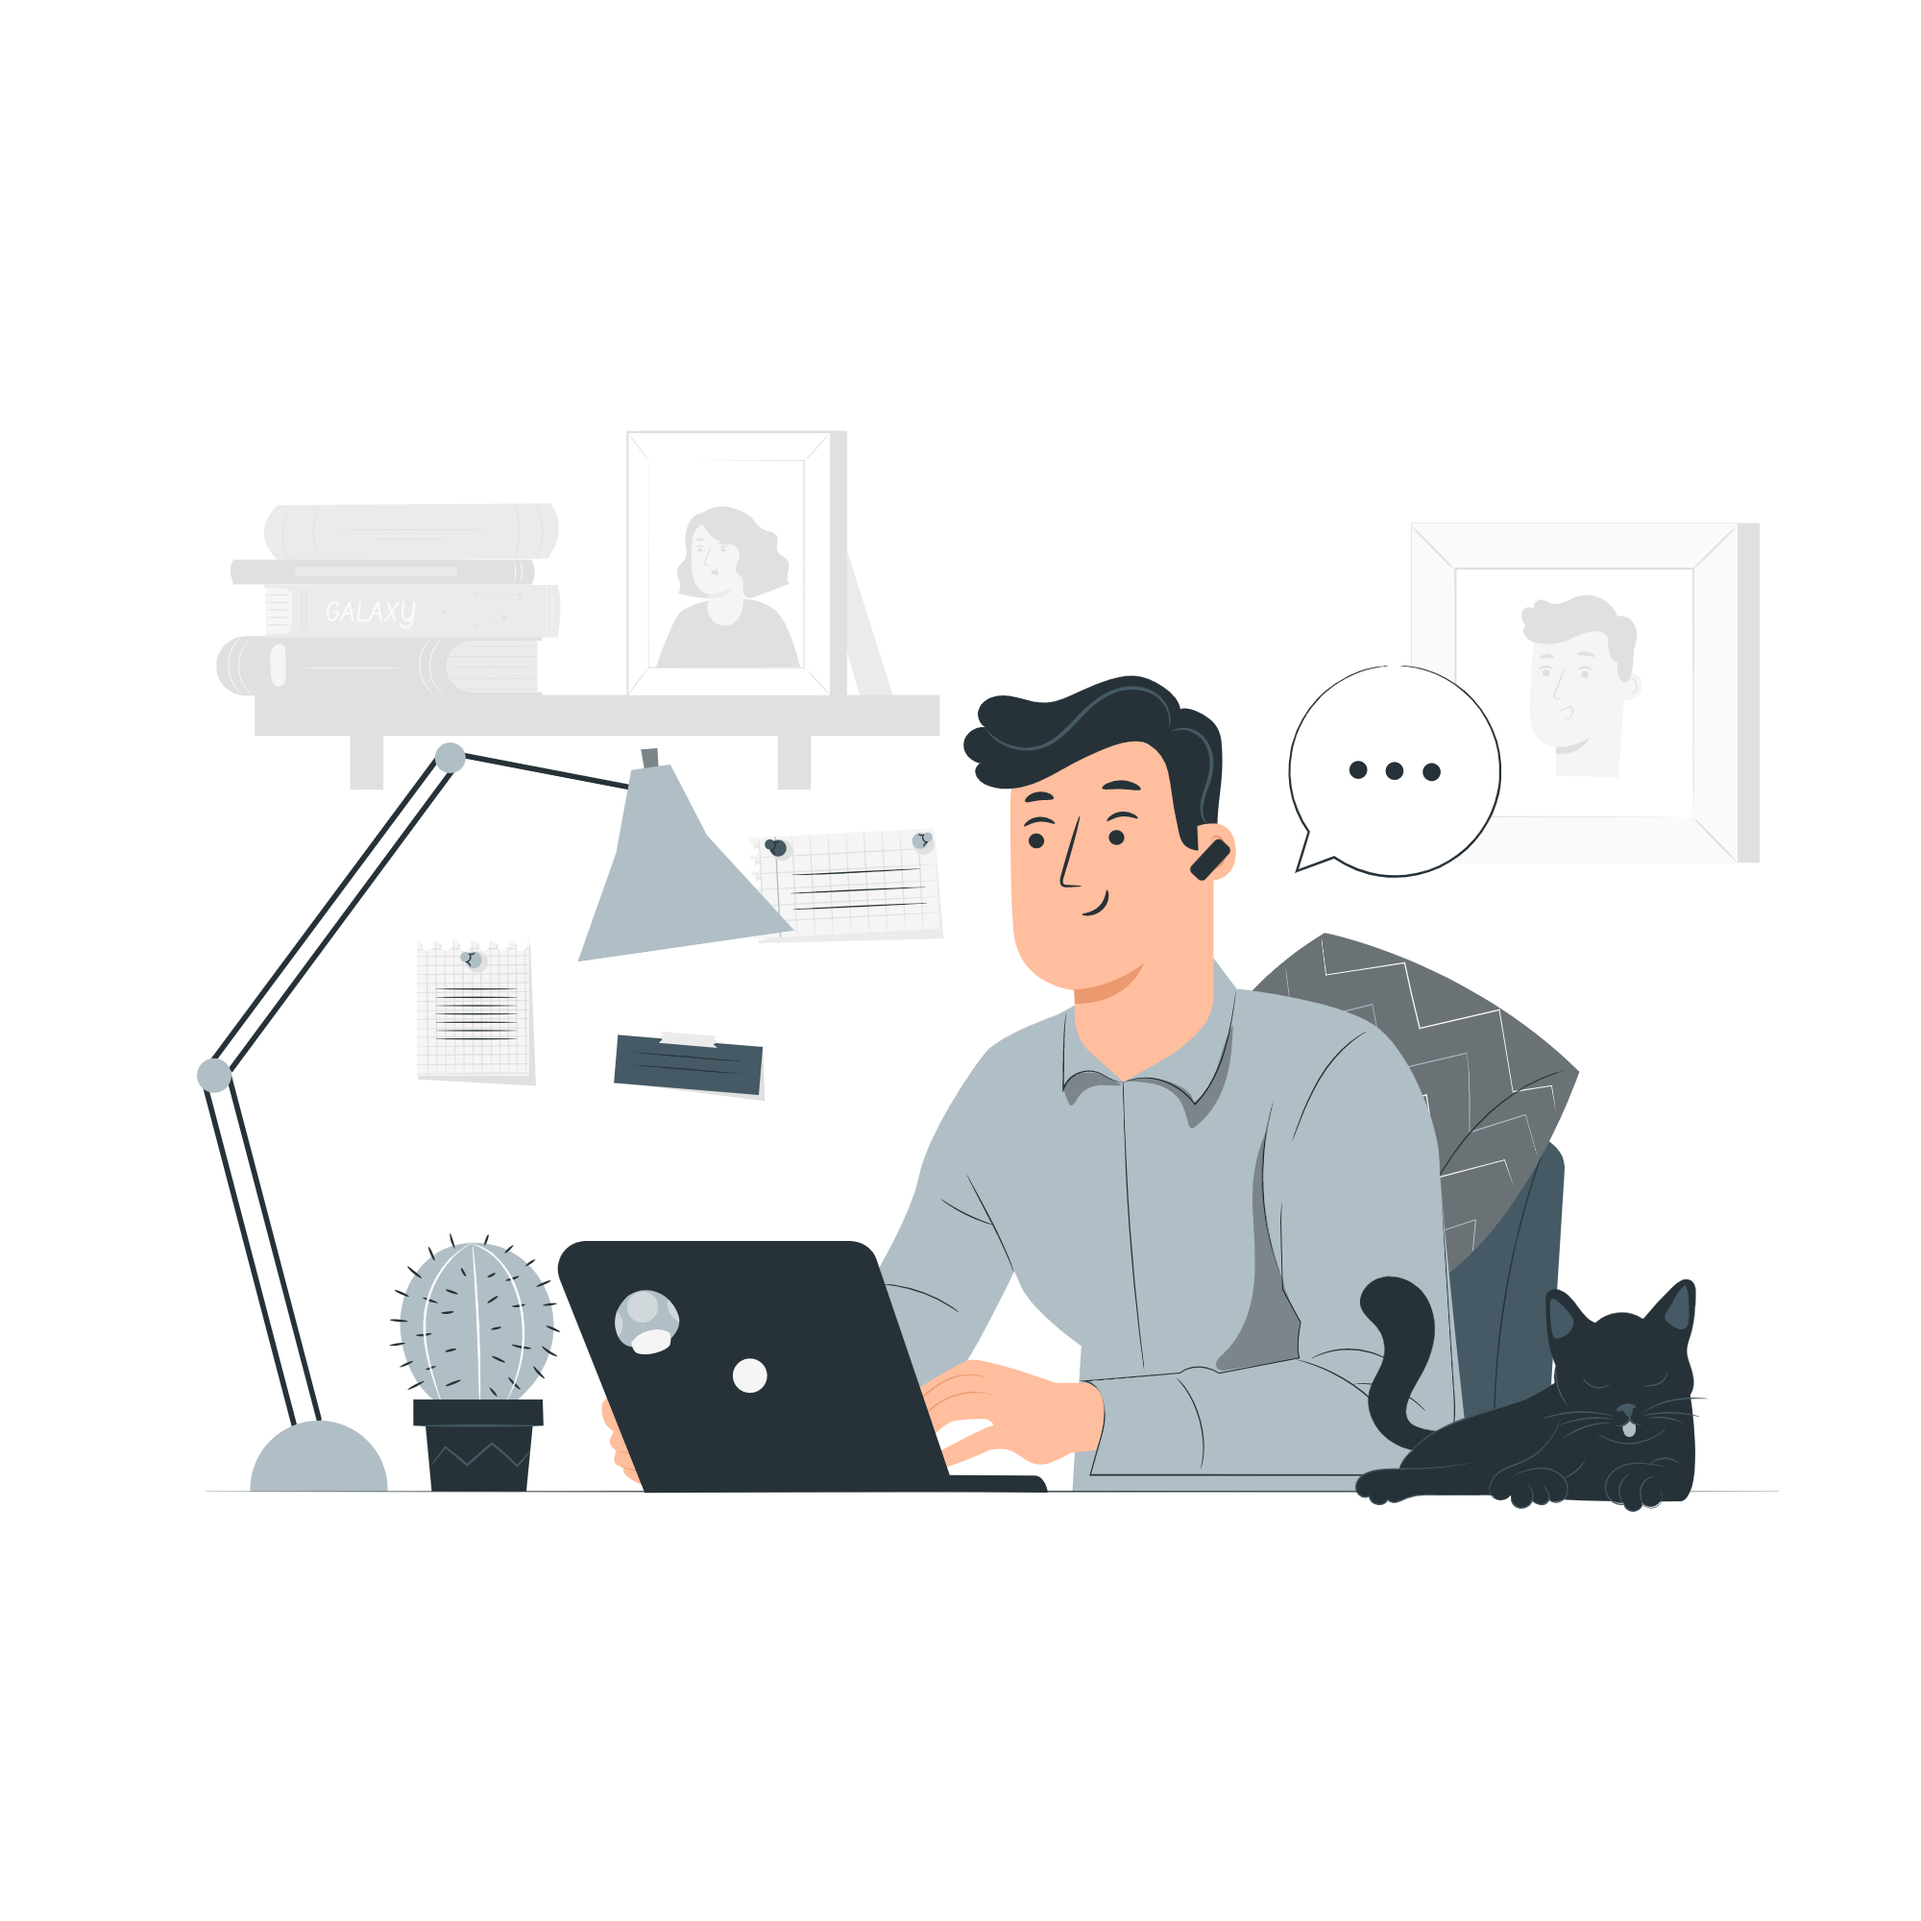
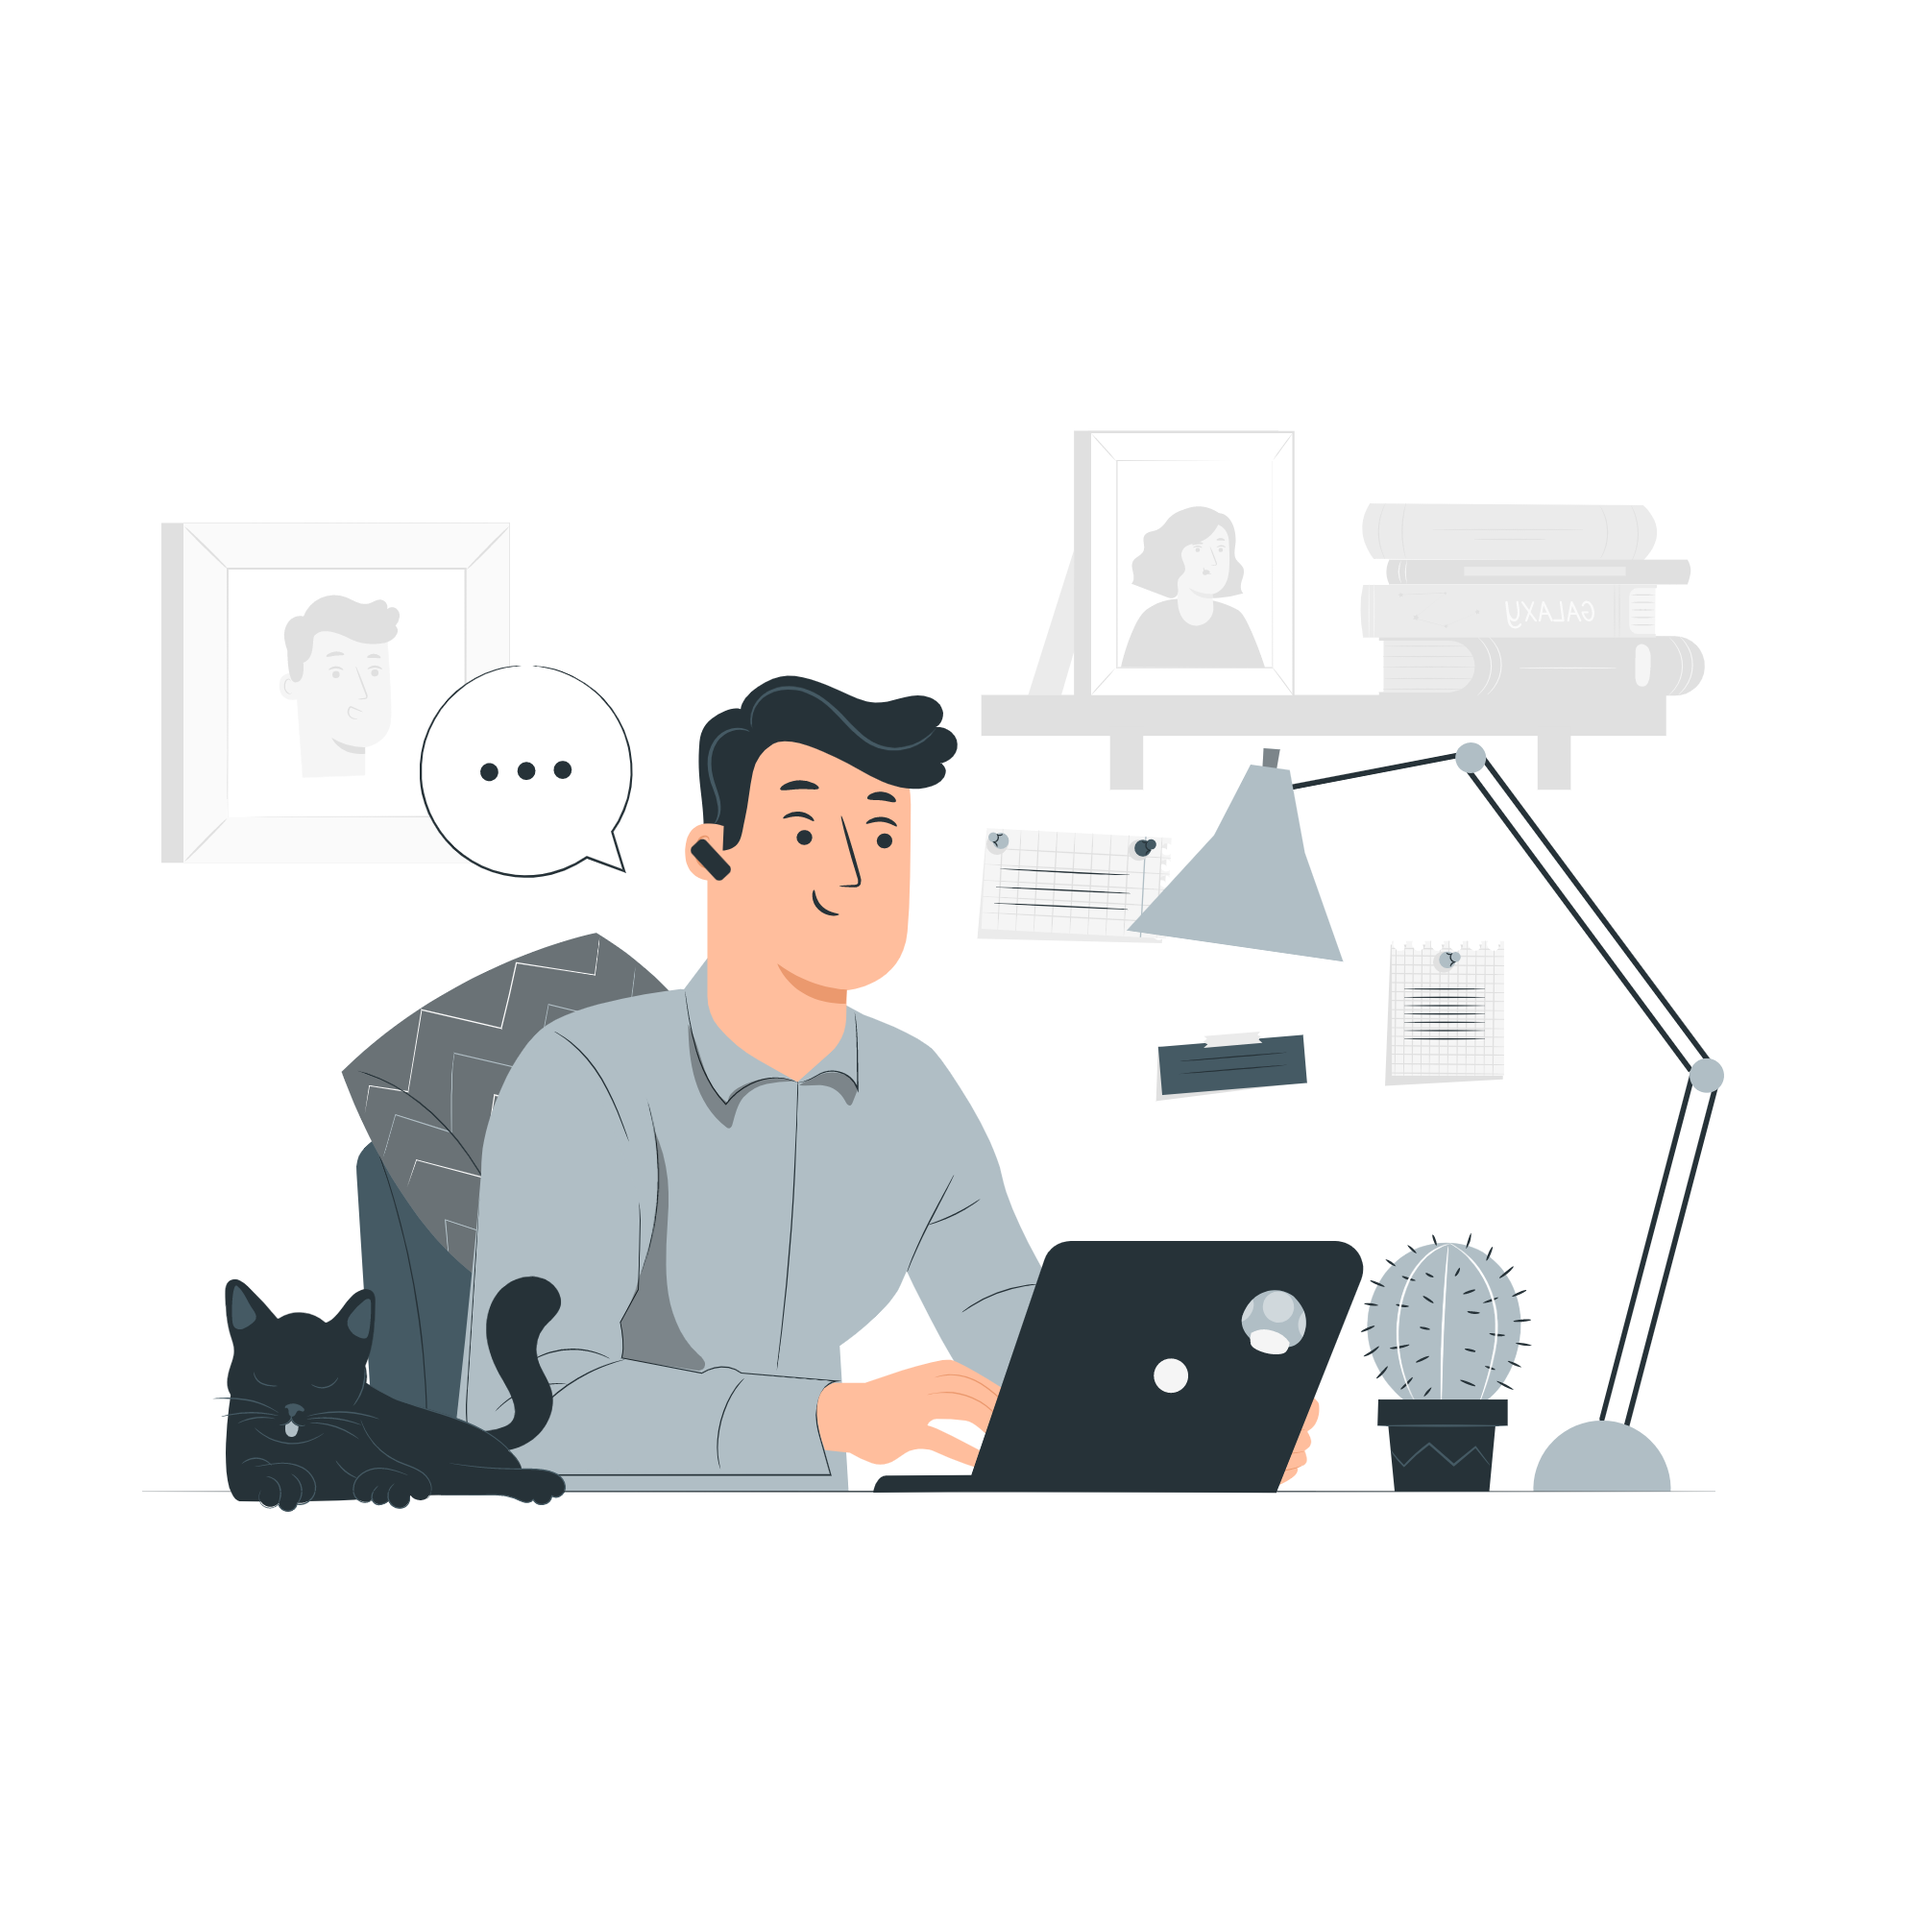
update about me

Changed region(s): [[0.062, 0.217, 0.93, 0.806], [0.837, 0.496, 0.868, 0.527], [0.155, 0.465, 0.186, 0.496]]

diff --git a/index.html b/index.html
@@ -62,11 +62,18 @@
   </div>
 
   <!-- About Me-->
-  <!-- <section id="s2">
-        <div class="container">
-                About
+  <section id="s2">
+        <div class="row body-frame">
+            <h2>About Me</h2>
+            <div class="col-lg-5">
+              <img class="img-fluid imagebanner" src="images/Telecommuting-pana.png" alt="banner">
+            </div>
+        <div class="col-lg-7">
+              <p class="pabout">
+                Develop and created programs that made an impact to the company that I worked with, Have 5 years experience on softare and hardware concerns.
+              </p>
         </div>
-      </section> -->
+  </section>
 
   <section id="s3">
     <div class="body-frame">

diff --git a/css/styles.css b/css/styles.css
@@ -71,8 +71,14 @@ p, li, span, label, input, textarea{
 .h3hello{
 padding-top:  30%;
 }
+ /* s2 About Me */
+.pabout{
+  padding-top: 20%;
+  font-size: 20px;
+}
 
-/* s3 */
+
+/* s3 skills */
 #s3{
   padding-top:  4%;
   padding-bottom: 4%;
@@ -129,7 +135,7 @@ padding-top:  30%;
 }
 
 .skill-bar .bar .Scss{
-  width: 90%;
+  width: 80%;
   animation: Scss 3s;
 }
 
